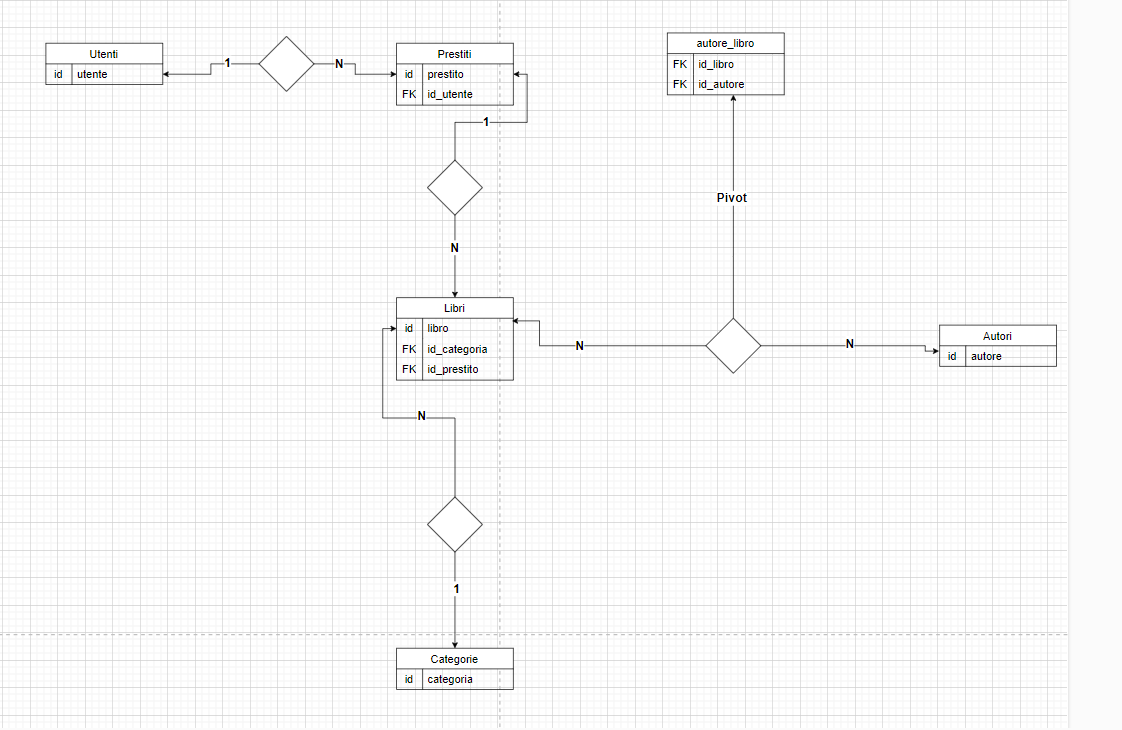
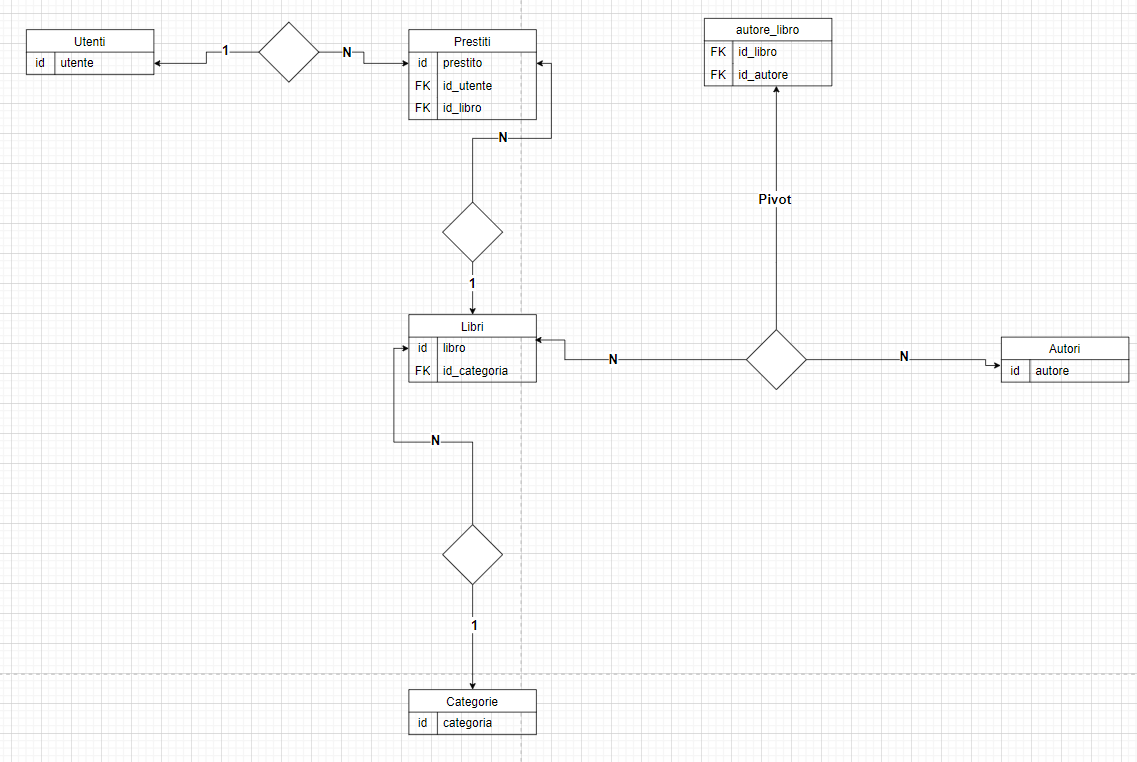
add: change diagram and explain my choices in README.md

diff --git a/README.md b/README.md
@@ -1,0 +1,5 @@
+**Gestione biblioteca**
+Per creare il diagramma della gestione di una biblioteca, sono partità dall'entità libri. Innanzittuto ho definito la relazione tra libri e autori, la quale é una relazione **molti a molti** e quindi c'era bisogno della creazione di una tabella **pivot** nella quale inserire le foreign key.
+Sia la relazione tra **libri e categorie** e **libri e prestiti** é una relazione **1 a molti**. Tra libri e categorie, **una categoria può avere più libri** mentre **un libro può avere una categoria**.
+Per quanto riguarda i prestiti, **un libro può avere più prestiti**, mentre **un prestito può essere associato ad un libro**.
+Anche la relazione tra **prestiti e utenti** é una relazione una a molti, in quanto **utente può avere più prestiti** mentre **un prestito può essere associato ad un singolo utente**. Dopo aver definito le relazioni, ho inserito la Foreign Key nella tabella lato 'molti' (N) della relazione 1:N, in modo che ciascun record di questa tabella possa riferirsi al corrispondente record della tabella lato 'uno' (1).
